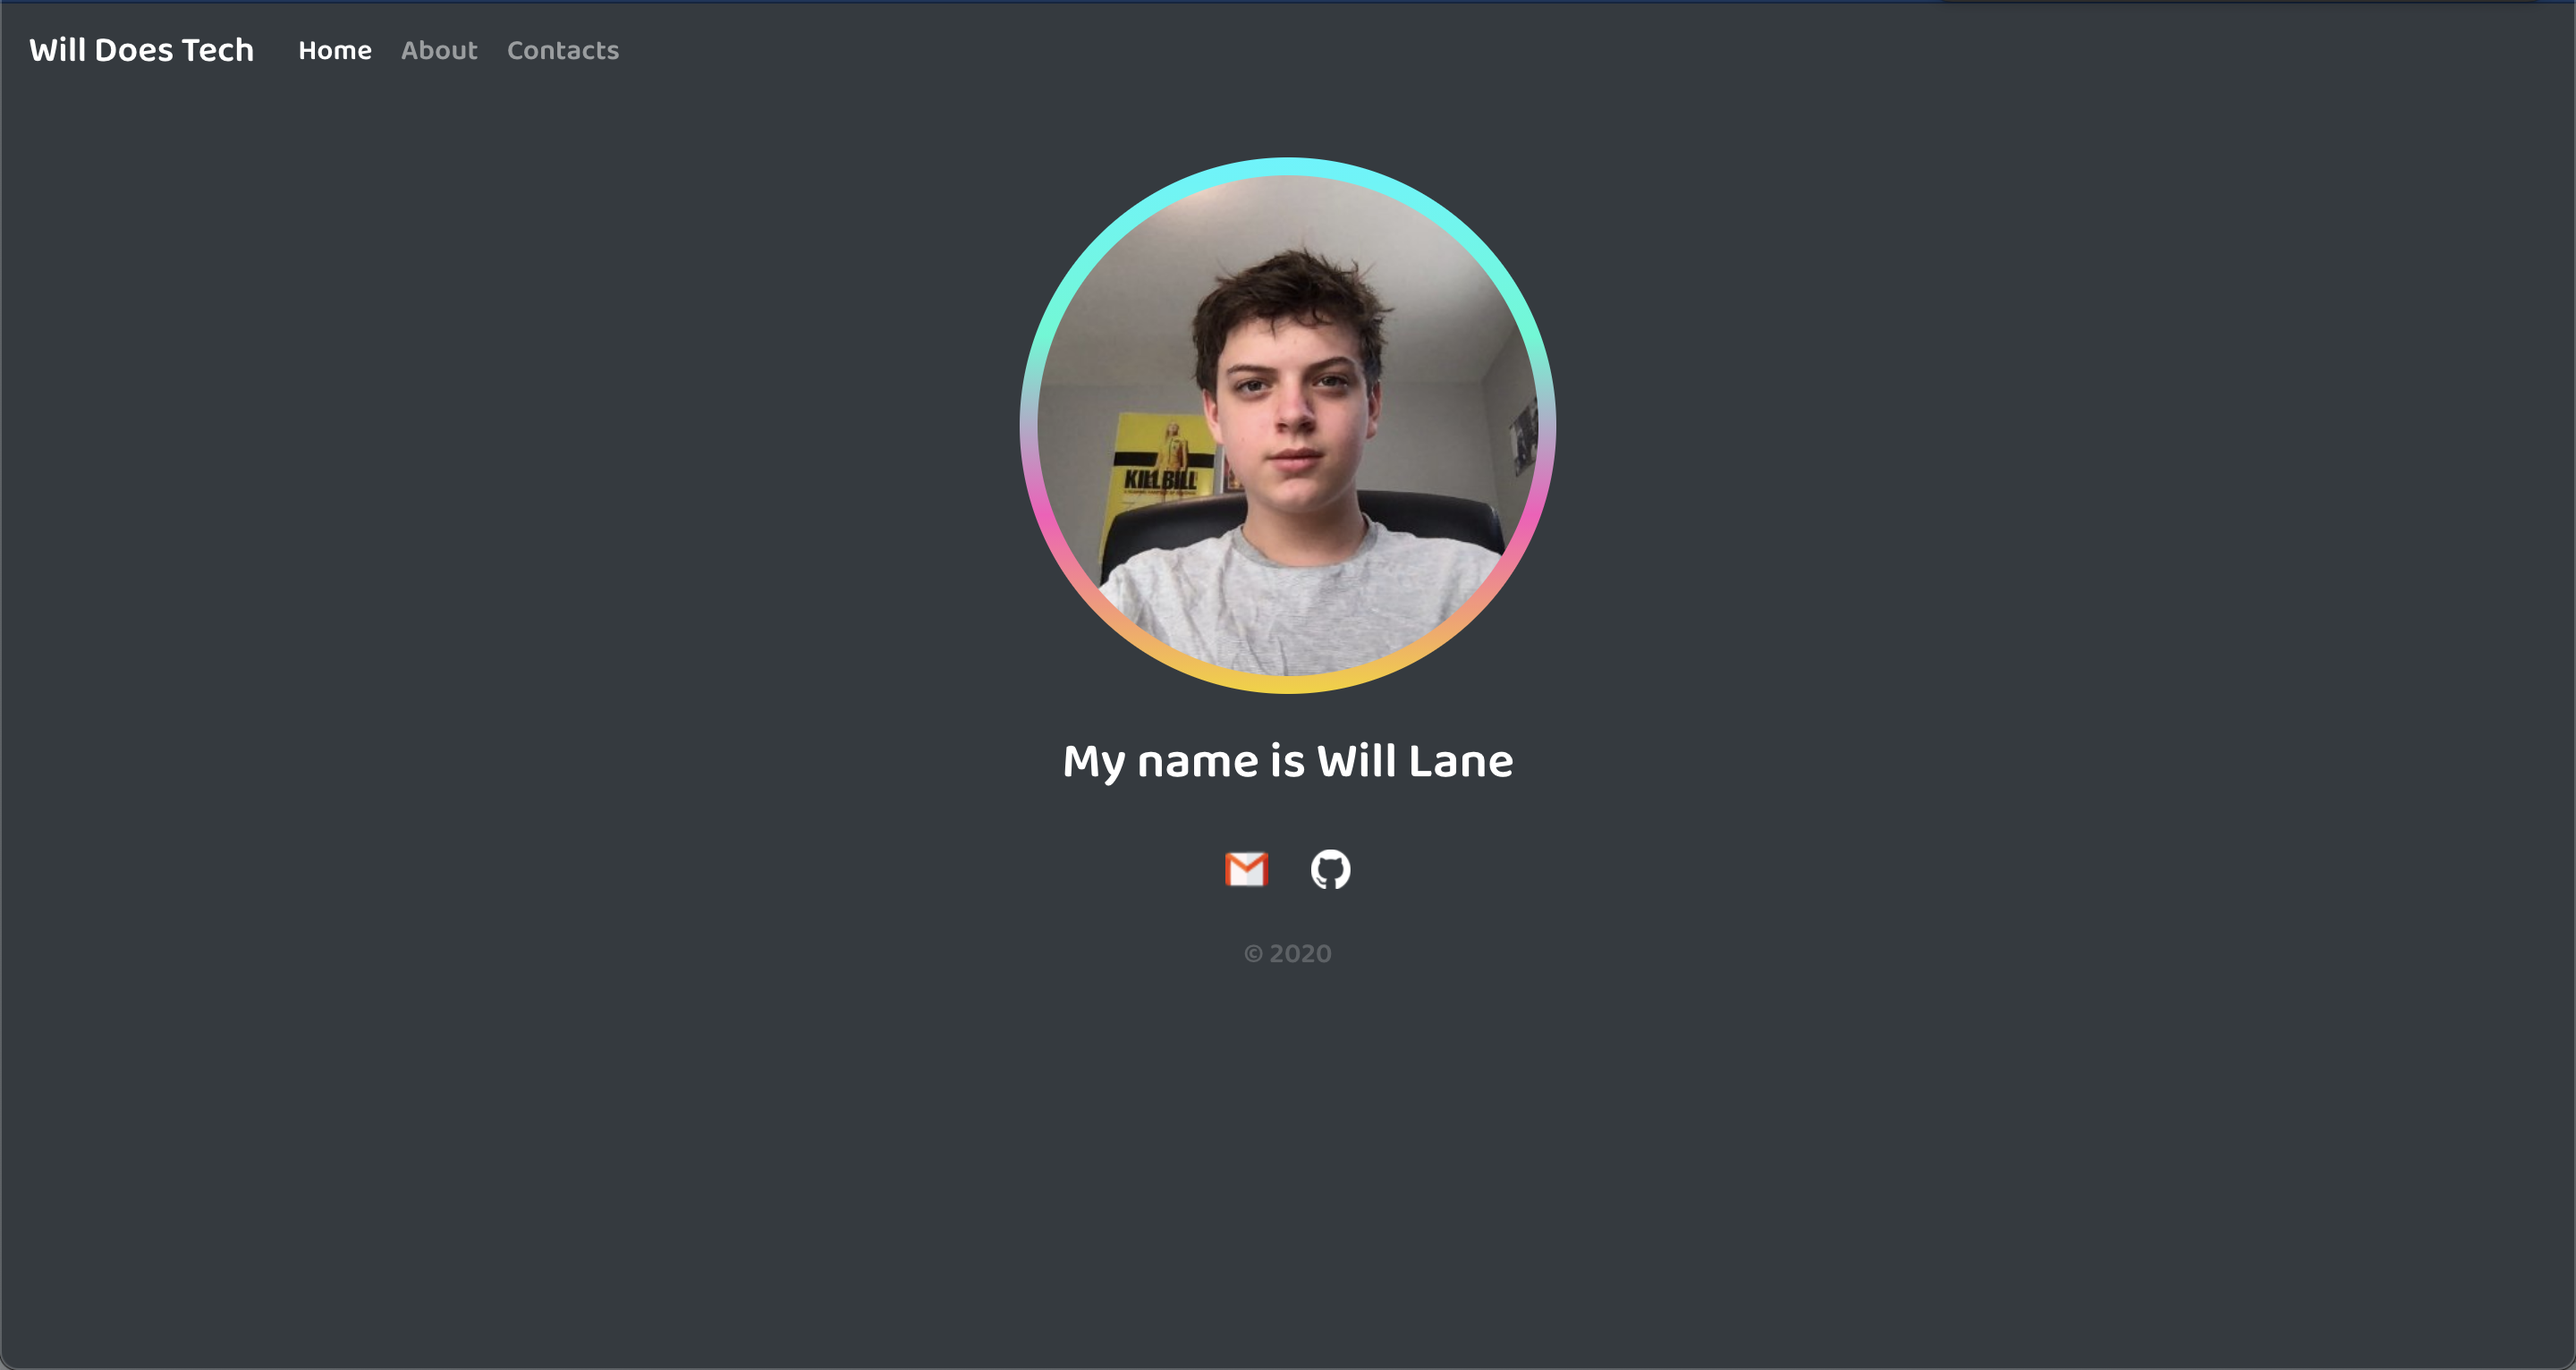
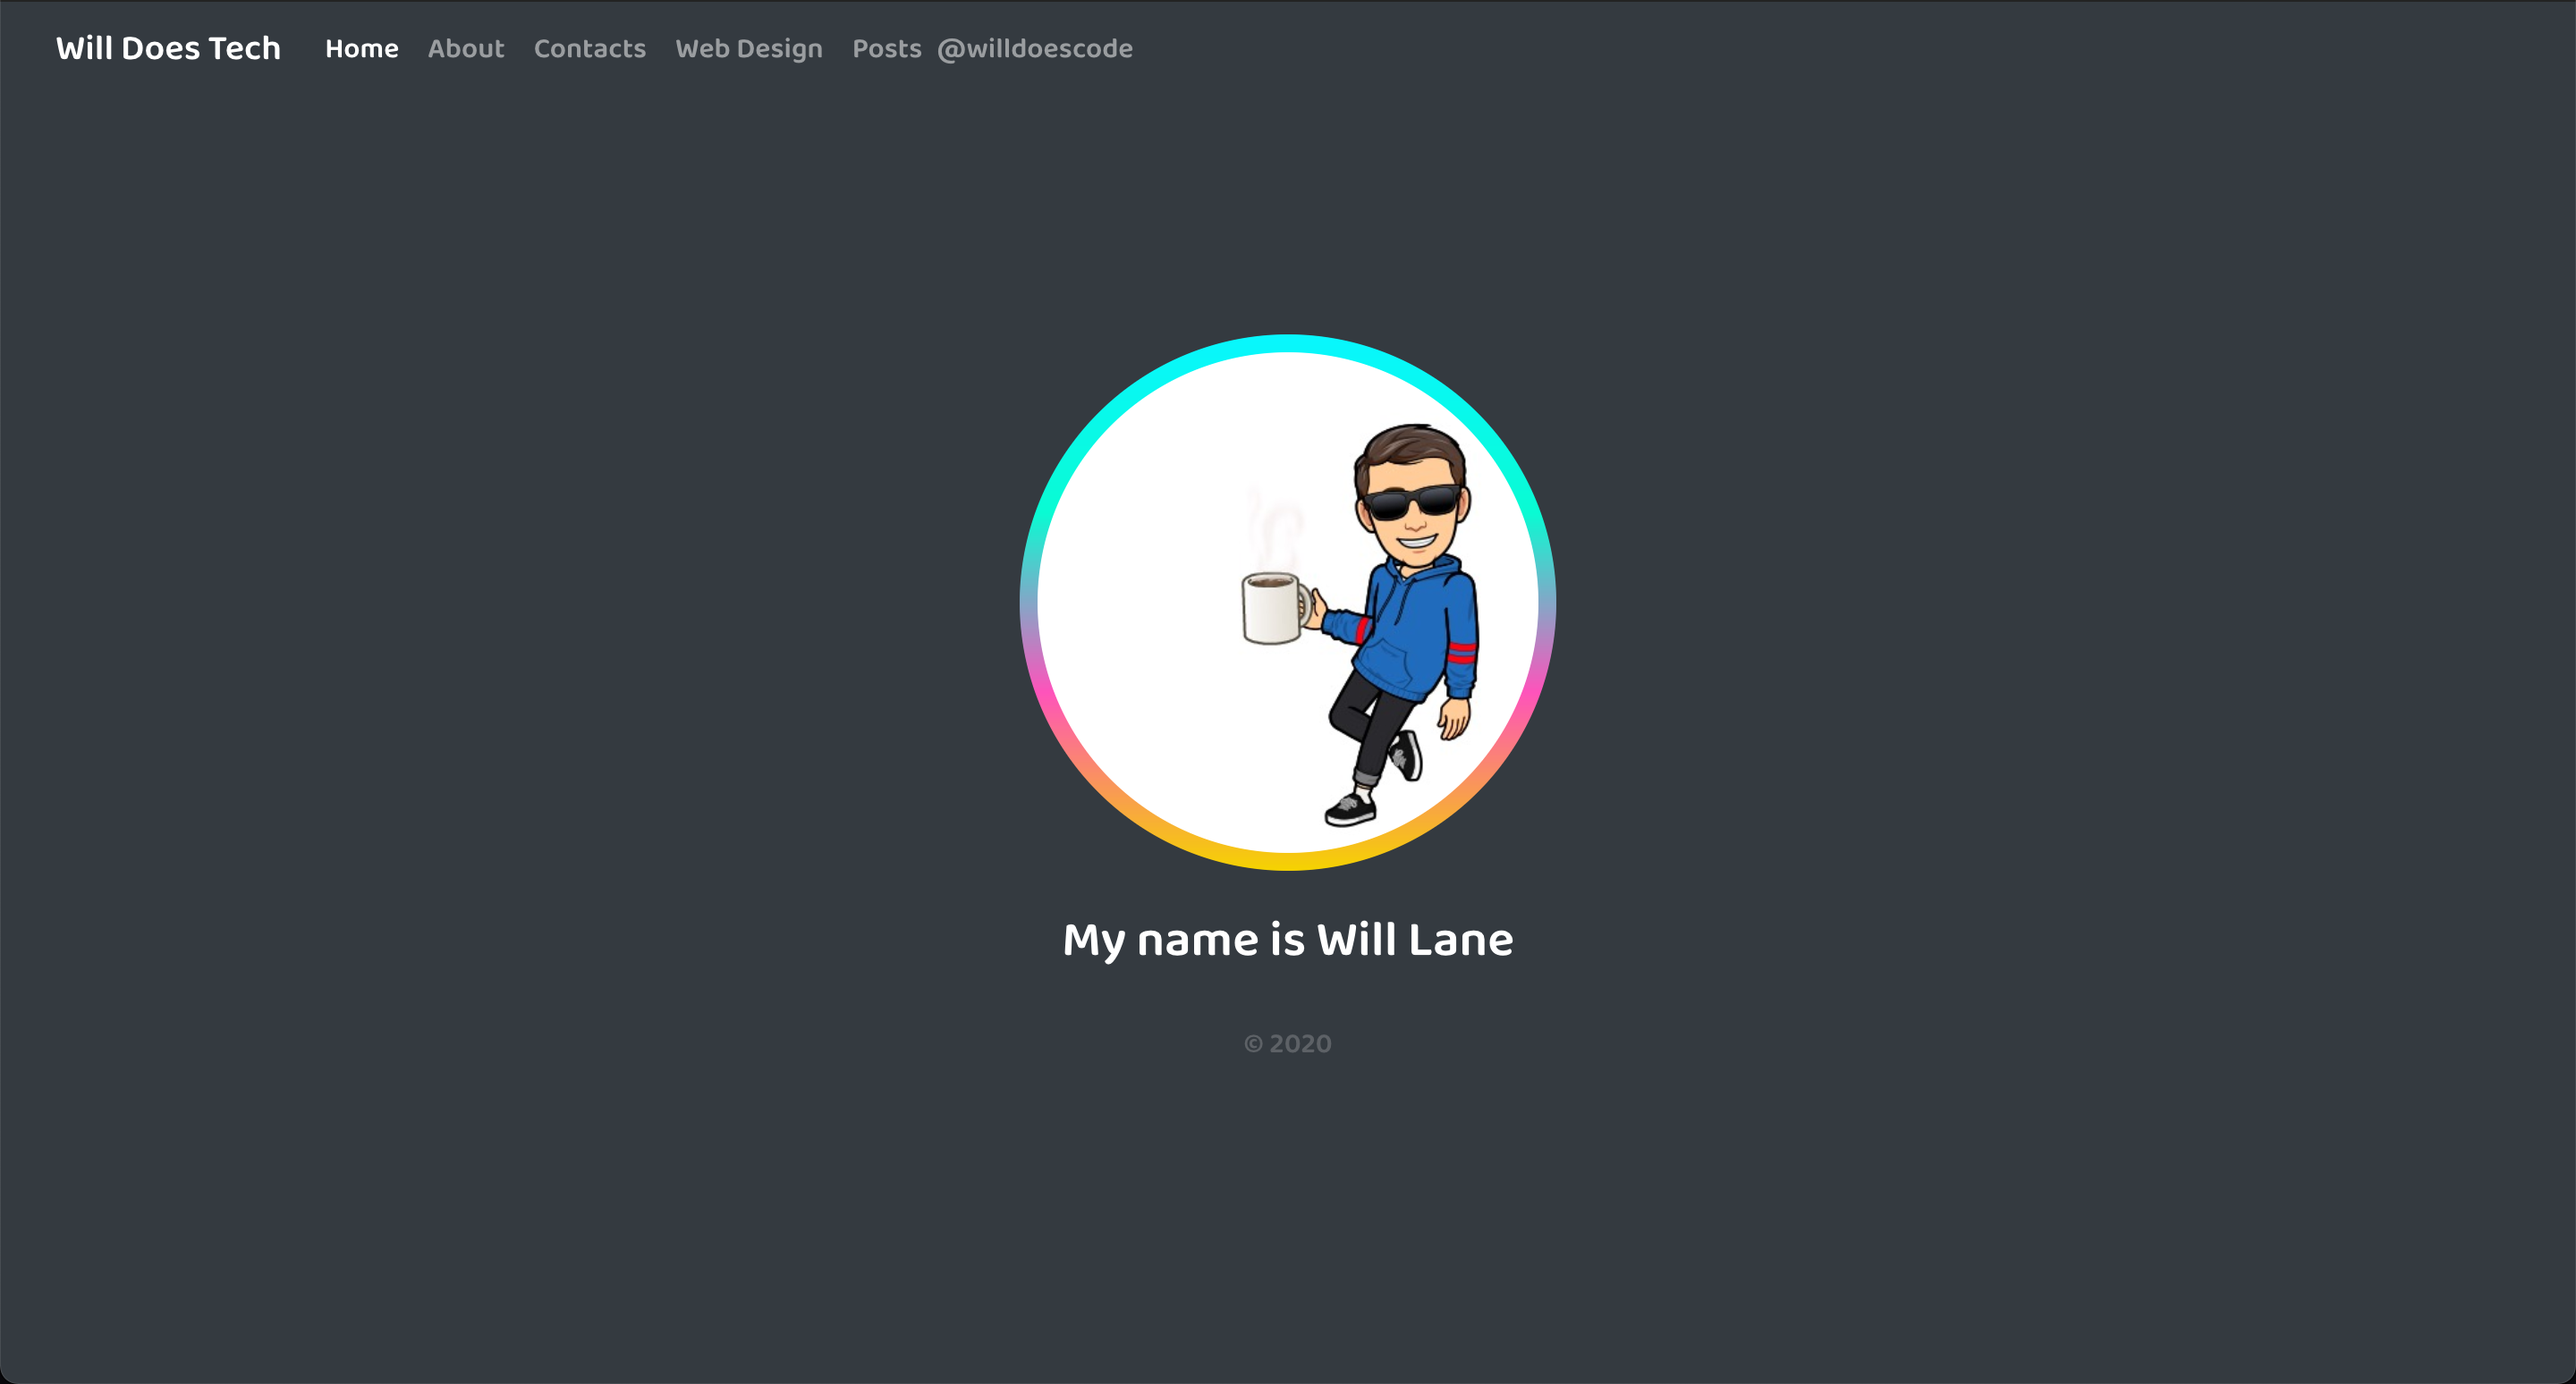
changed website image for the github

Changed region(s): [[0.375, 0.092, 0.625, 0.7056], [0.0, 0.0, 0.4375, 0.0614], [0.5, 0.7363, 0.5312, 0.767]]

diff --git a/src/components/Postpage.vue b/src/components/Postpage.vue
@@ -120,7 +120,7 @@ div {
   margin-top: 5px;
 }
 
-.desc p{
+.desc p {
   text-transform: lowercase;
   font-size: 15px;
 }

diff --git a/README.md b/README.md
@@ -6,10 +6,6 @@
 
 ![Site](read.png)
 
-## Vertical version
-
-![vertsite](vertical.png)
-
 ## Project setup
 ```
 npm install
